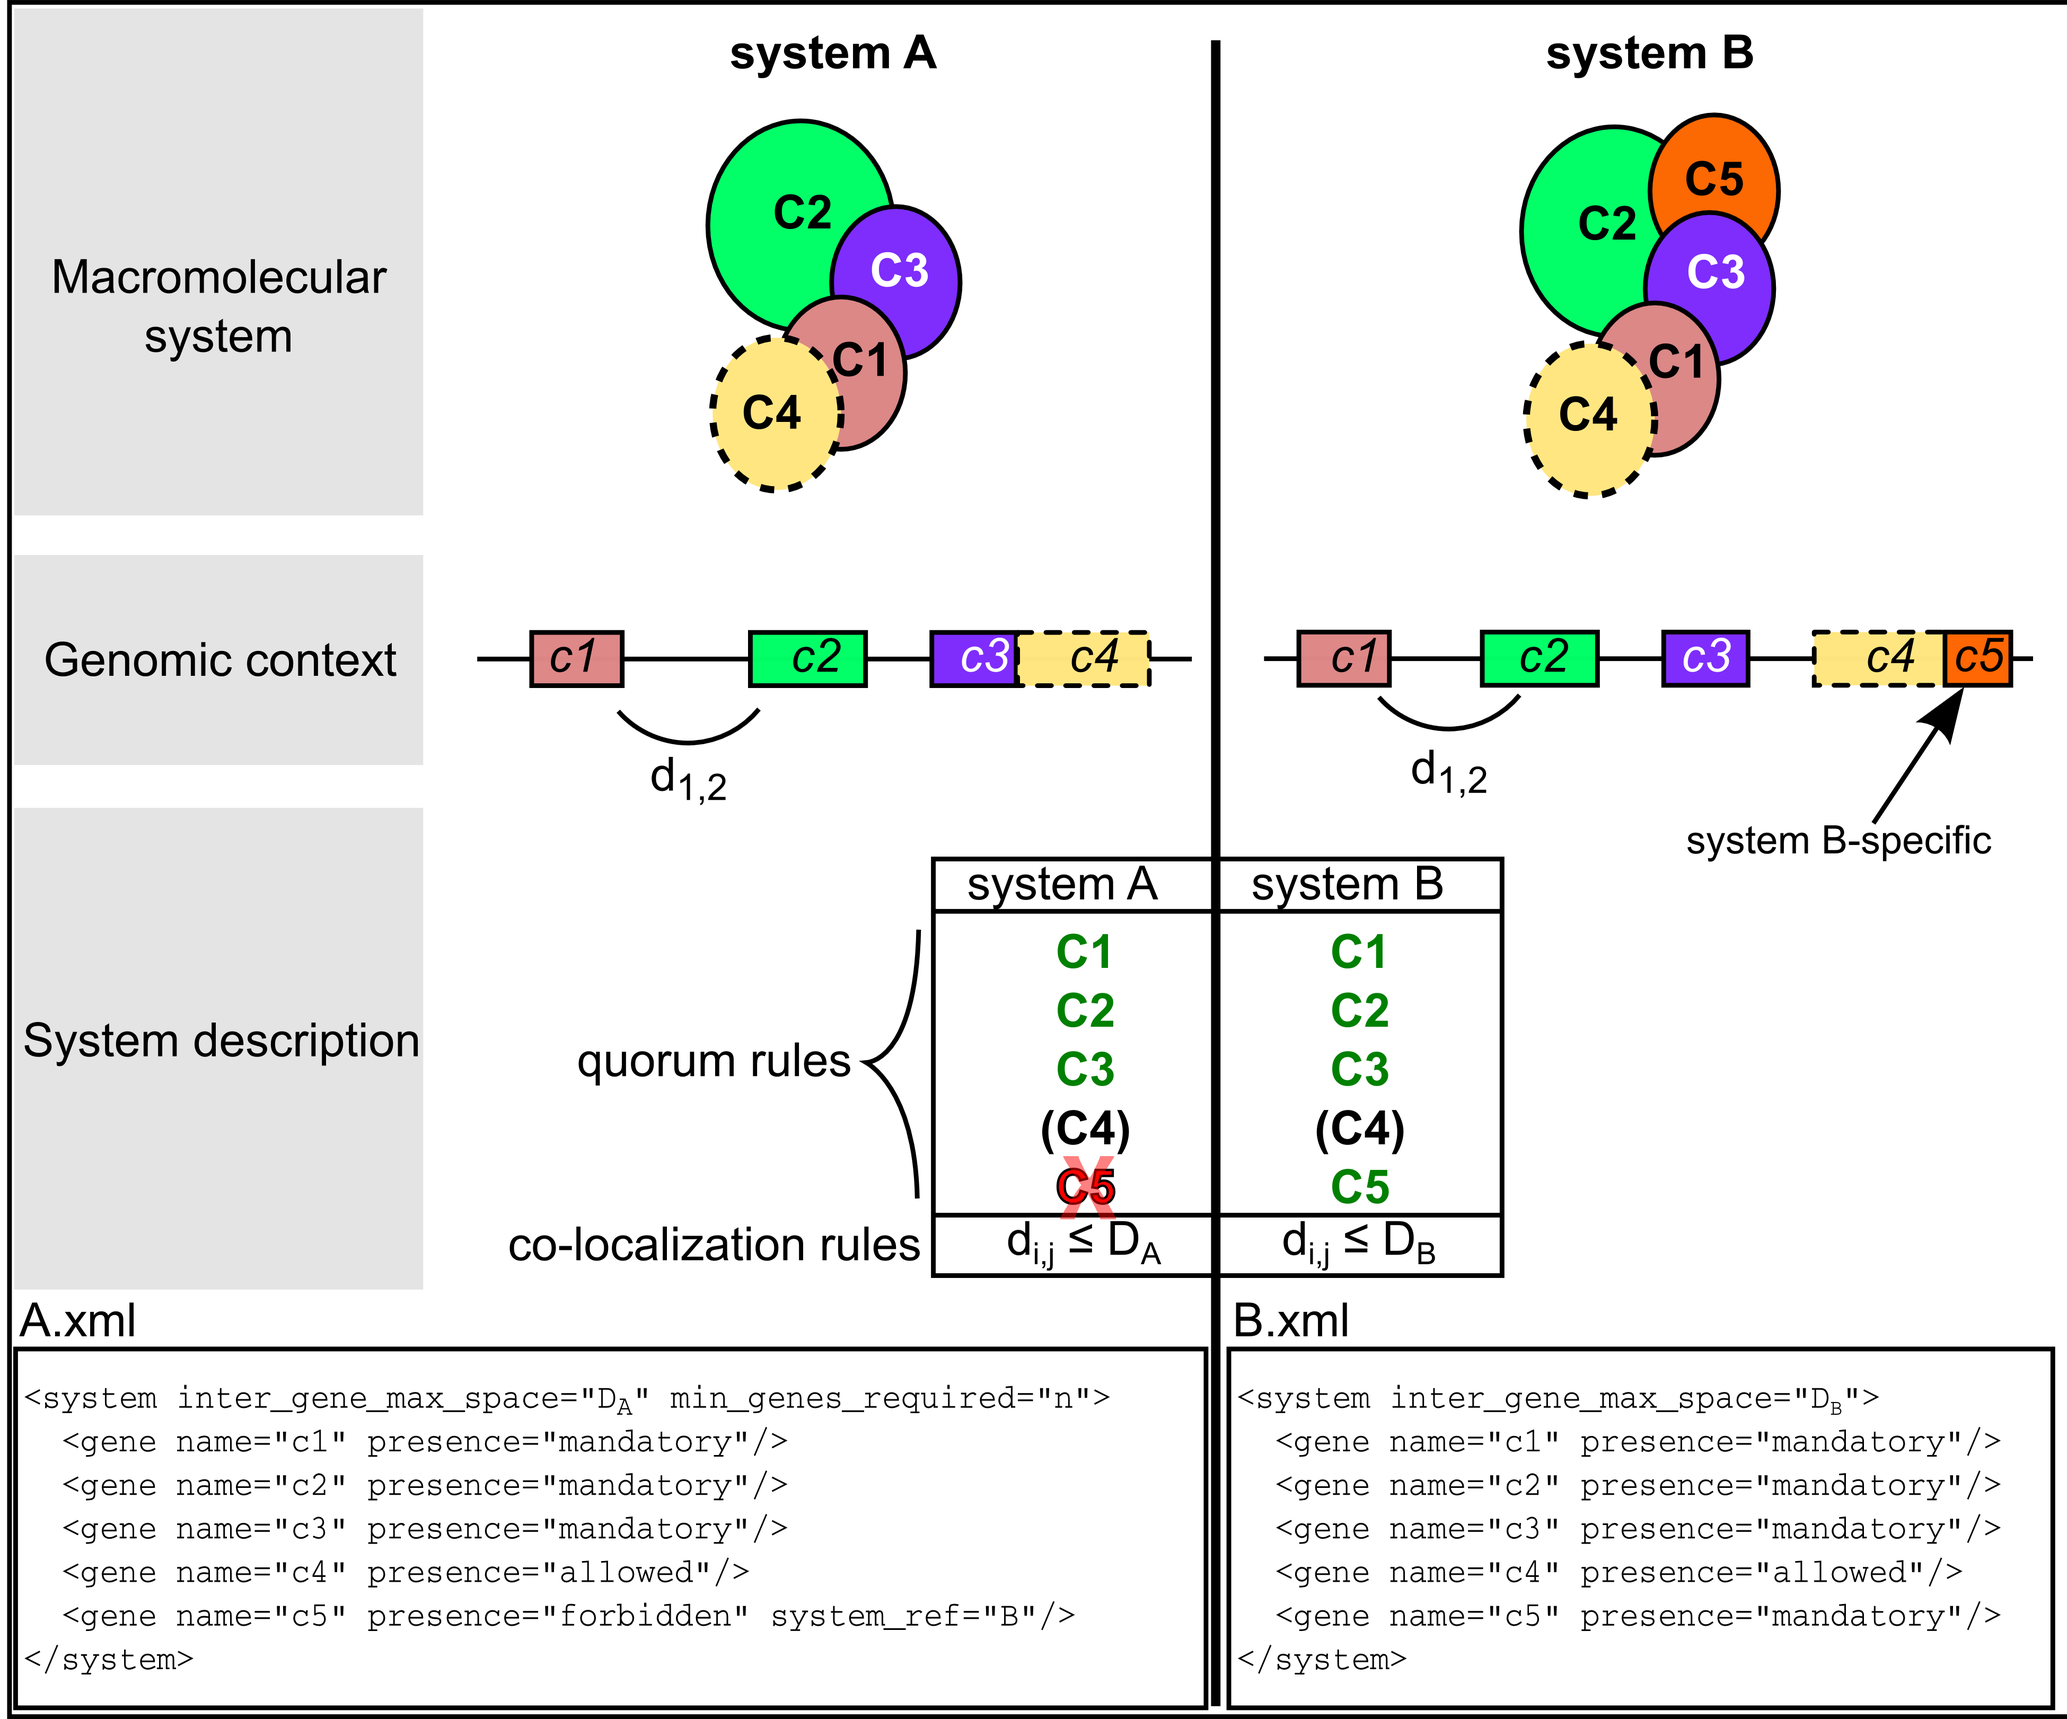
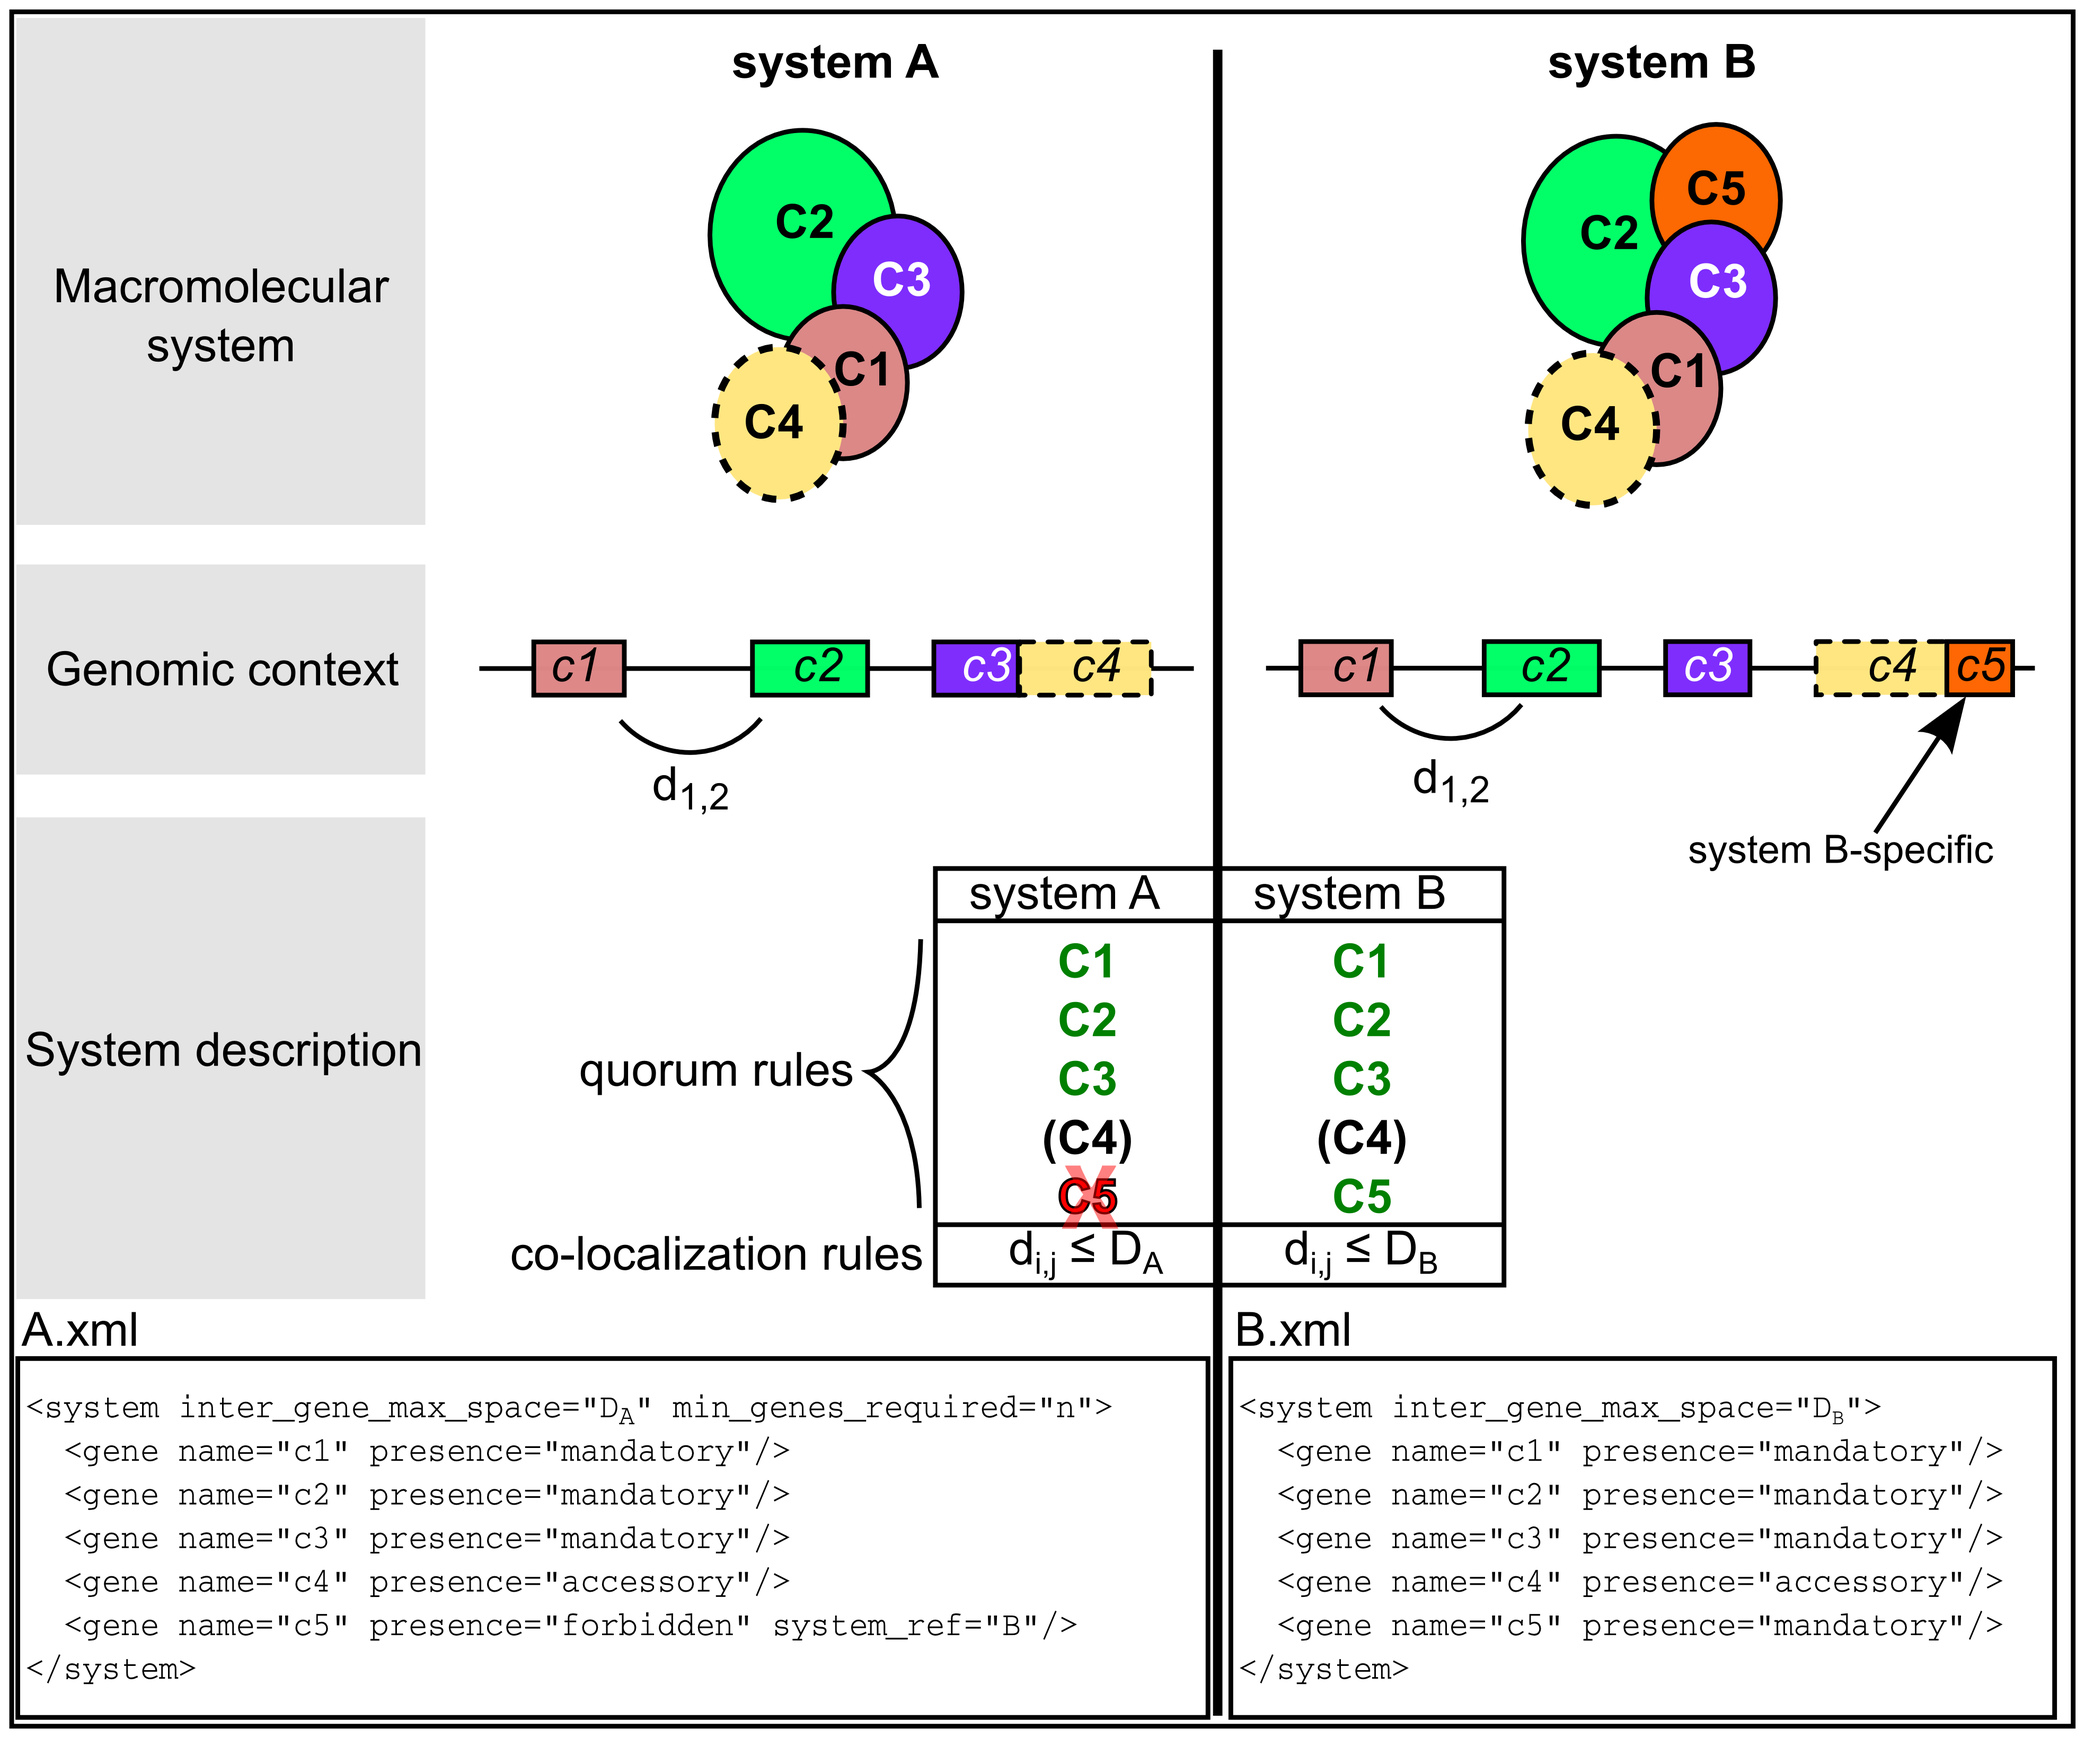
'Allowed' level of genes changed to 'Accessory' in the Doc and associated images;

Changed region(s): [[0.0, 0.0, 1.0, 1.0], [0.3103, 0.436, 0.3414, 0.4672]]

diff --git a/doc/system_definition.rst b/doc/system_definition.rst
@@ -15,7 +15,7 @@ Features regarding **co-localization** parameters for system detection are also 
 Three distinct types of components can be used to model a given system content, and which corresponds to Gene objects, and the corresponding HMM protein profiles. 
 
 * **Mandatory** components represent essential components to be found to infer the System presence.
-* **Allowed** components correspond to components that can be found in some systems occurrence, or fastly evolving components that are hard to detect with a single profile. 
+* **Accessory** components correspond to components that can be found in some systems occurrence, or fastly evolving components that are hard to detect with a single profile. 
 * **Forbidden** components are components which presence is eliminatory for the System assessment. 
 
 
@@ -35,8 +35,8 @@ The XML hierarchy
   * The element "system" may have attributes:
   
      * "min_mandatory_genes_required": an integer representing the minimal number of mandatory genes required to infer the system presence.
-     * "min_genes_required": an integer representing the minimal number of mandatory or allowed genes (whose corresponding proteins match a profile of the system) required to infer the system presence.
-     * "max_nb_genes": an integer representing the maximal number of mandatory or allowed genes in the system.
+     * "min_genes_required": an integer representing the minimal number of mandatory or accessory genes (whose corresponding proteins match a profile of the system) required to infer the system presence.
+     * "max_nb_genes": an integer representing the maximal number of mandatory or accessory genes in the system.
      * "multi_loci": a boolean set to True ("1", "true" or "True") to allow the definition of "scattered" systems (systems encoded by different loci). If not specified, *default value is false*.  
      
   * The system contains one or more element "gene".
@@ -44,7 +44,7 @@ The XML hierarchy
 * The element "gene" has several mandatory attributes: 
 
    * "name": which must match to a profile in the profile directory.
-   * "presence": which can take three values "mandatory", "allowed", "forbidden".
+   * "presence": which can take three values "mandatory", "accessory", "forbidden".
 
 
  The element "gene" may have other attributes: 
@@ -74,7 +74,7 @@ Example of a system definition in XML: ::
            <gene name="pilT" system_ref="T4P"/>
        </analogs>
     <gene name="sctV_FLG" presence="mandatory"/>
-    <gene name="flp" presence="allowed"/>
+    <gene name="flp" presence="accessory"/>
   </system>
 
 .. warning::

diff --git a/doc/outputs.rst b/doc/outputs.rst
@@ -80,19 +80,19 @@ Each line corresponds to a system that has been detected. It includes:
     * System_status	- the status of the system
     * Nb_loci - the number of loci that constitutes the system
     * Nb_Ref_mandatory - the number of mandatory genes in the system definition
-    * Nb_Ref_allowed - the number of allowed genes in the system definition
-    * Nb_Ref_Genes_detected_NR - the number of different components (allowed+mandatory) in the system 
+    * Nb_Ref_accessory - the number of accessory genes in the system definition
+    * Nb_Ref_Genes_detected_NR - the number of different components (accessory+mandatory) in the system 
     * Nb_Genes_with_match - the number of components detected with the profiles in the system
     * System_length	- the full number of components (with match or not) in the locus (or loci) that constitutes the system 
     * Nb_Mandatory_NR - the number of different mandatory components matched  
-    * Nb_Allowed_NR - the number of different allowed components matched 
+    * Nb_Accessory_NR - the number of different accessory components matched 
     * Nb_missing_mandatory - the number of mandatory components from the system definition with no match in this system occurrence
-    * Nb_missing_allowed - the number of allowed components from the system definition with no match in this system occurrence	
+    * Nb_missing_accessory - the number of accessory components from the system definition with no match in this system occurrence	
     * List_missing_mandatory - the list of the missing mandatory components
-    * List_missing_allowed - the list of the missing allowed components
+    * List_missing_accessory - the list of the missing accessory components
     * Loci_positions - the sequence position (rank of the fasta sequence in the input sequence file) of the different loci encoding the system 
     * Occur_Mandatory - counts of the mandatory components
-    * Occur_Allowed - counts of the allowed components
+    * Occur_Accessory - counts of the accessory components
     * Occur_Forbidden - counts of the forbidden components
 
 txsscan.json

diff --git a/doc/functioning.rst b/doc/functioning.rst
@@ -13,7 +13,7 @@ Initially, MacSyFinder **searches for the components** of a system using Hmmer w
 From the list of systems to detect, a non-redundant list of components (and corresponding HMM protein profiles) to search with Hmmer is built. For each system, the search is performed for:
 
     - mandatory components
-    - allowed components
+    - accessory components
     - forbidden components
     - homologs of these three types of components in the case they are *"exchangeable"*  
 
@@ -26,7 +26,7 @@ Assessing systems presence
 **************************
 
 The following steps depend on whether the input dataset is *ordered* (complete or nearly complete genome(s)), or *unordered*  (metagenomes, or unassembled genome) (see :ref:`input-dataset-label`). 
-In the case of **ordered datasets**, the hits of the previous analysis are used to build *clusters of co-localized genes* as defined in the XML files. These clusters are then scanned to check for the model specifications like minimal quorum of "Mandatory" or "Allowed" genes or the absence of "Forbidden" components. 
+In the case of **ordered datasets**, the hits of the previous analysis are used to build *clusters of co-localized genes* as defined in the XML files. These clusters are then scanned to check for the model specifications like minimal quorum of "Mandatory" or "Accessory" genes or the absence of "Forbidden" components. 
 When the gene order is unknown the power of the analysis is more limited. In this case, and depending on the type of dataset, the presence of systems can be suggested only on the basis of the quorum of genes. The results are outputted in a tabular and graphical form (see :ref:`outputs`). 
 
 

diff --git a/doc/implementation.rst b/doc/implementation.rst
@@ -50,8 +50,8 @@ A system has an attribute `inter_gene_max_space` which is an integer,
 and three kind of components are listed in function of their presence in the system:
 
 * The genes that must be present in the genome to define this system ("mandatory").
-* The genes that can be present, but do not have to be found in every case ("allowed").
-* The genes that must not be present in the system ("forbiden").
+* The genes that can be present, but do not have to be found in every case ("accessory").
+* The genes that must not be present in the system ("forbidden").
 
 .. note:: 
     

diff --git a/doc/input.rst b/doc/input.rst
@@ -104,7 +104,7 @@ Systems detection options::
                         
   --min-genes-required SYSTEM VALUE
                         The minimal number of genes required for system
-                        assessment (includes both 'mandatory' and 'allowed'
+                        assessment (includes both 'mandatory' and 'accessory'
                         components). The first value must correspond to a
                         system name, the second value to an integer. This
                         option can be repeated several times: 
